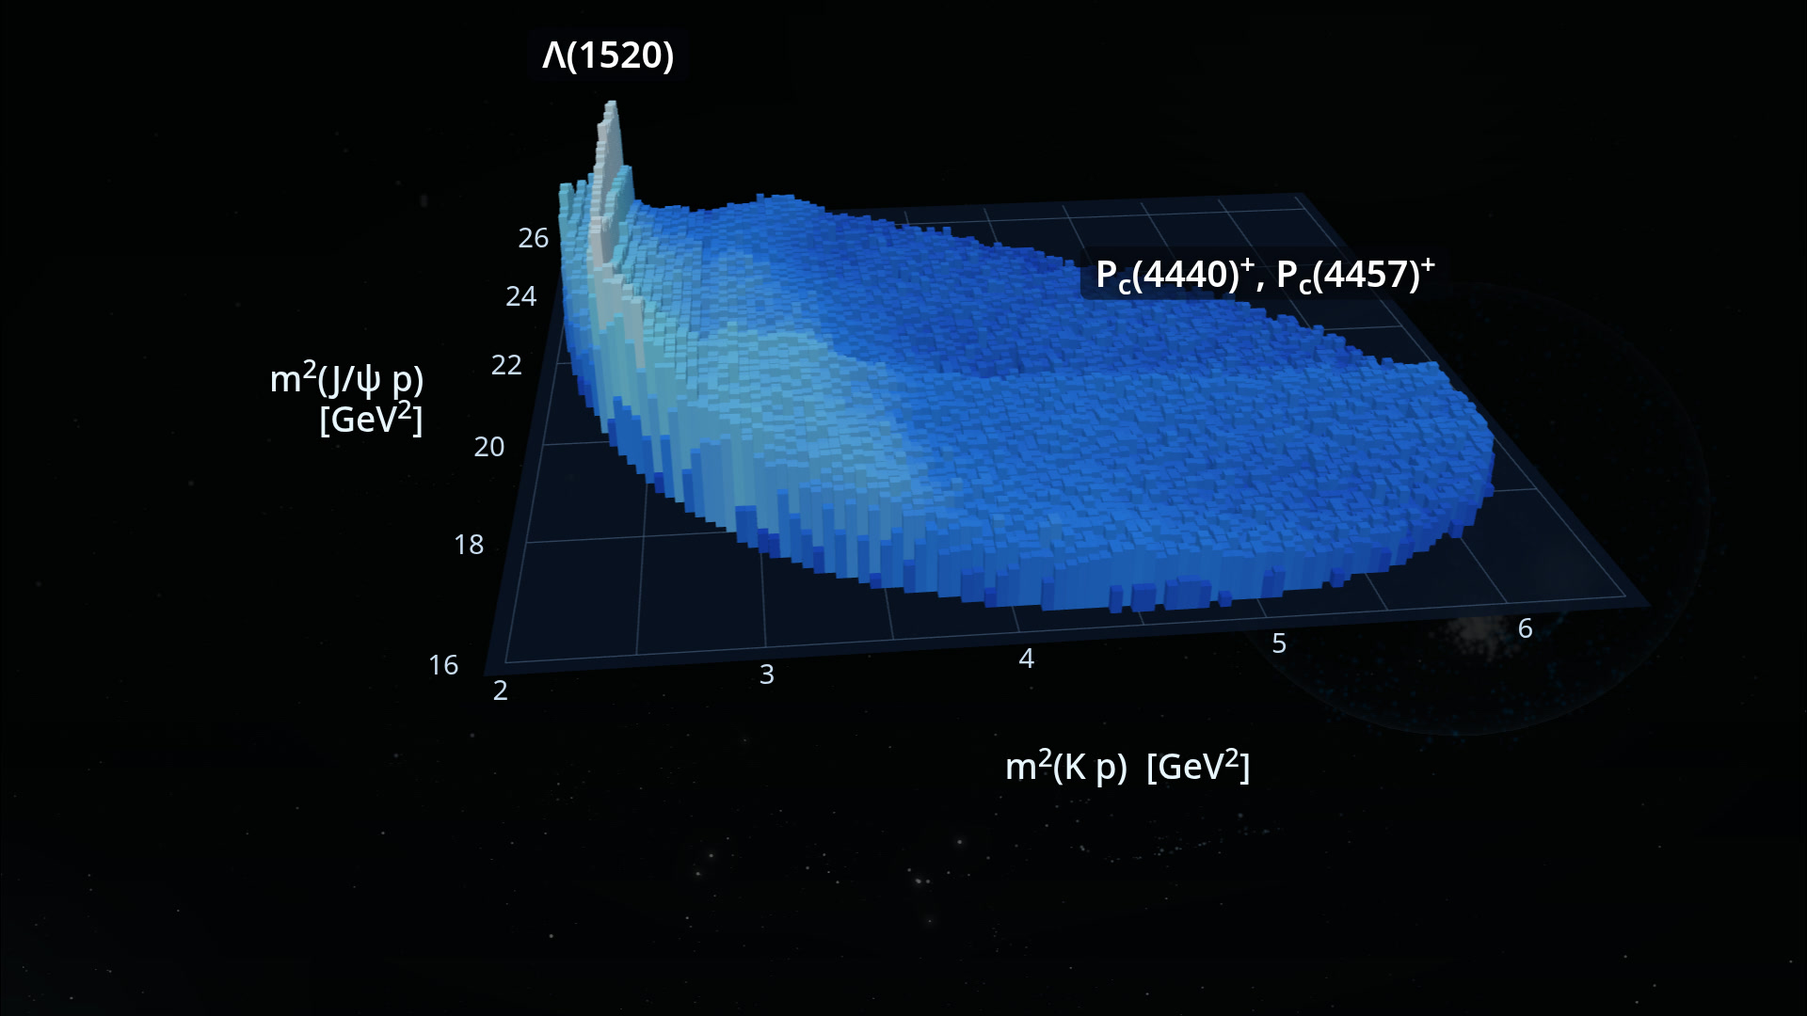
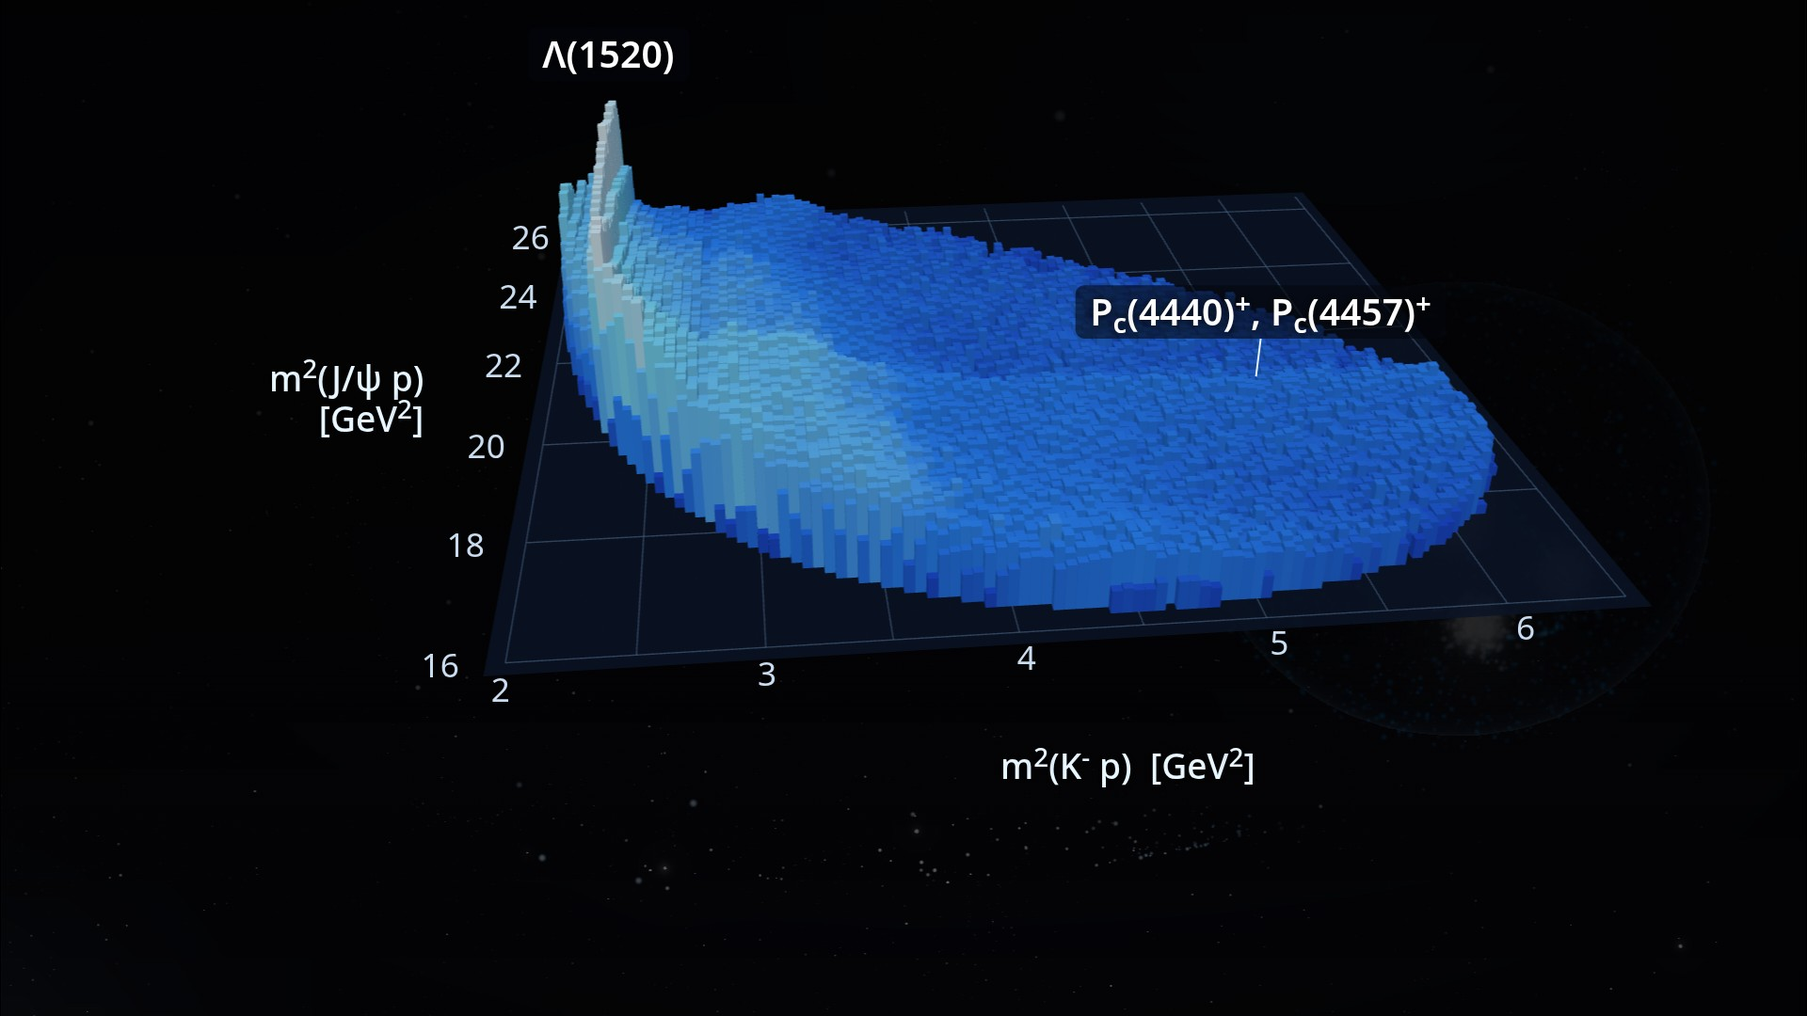
feat(tokyo): for an audience of scientists from Nagoya, Tokyo and RIKEN — Belle (2003) back after Kobayashi and Maskawa, the globe's cities and RIKEN named, the Dalitz plot's labels, plates re-recorded
The owner, 11 Nov: the audience is Japanese and Lithuanian scientists. Slide 9 is the
Belle slide again (X(3872), an exotic hadron candidate); the globe clip's lit cities are
named over its settled end (no new take); half a minute less on the atoms clip and the
recipes; the Dalitz plot's ticks at 18 px, K⁻ in its axis name, the P_c name joined to its
band; slide 16's two roles larger; 18 slides, 14.6 of 15 min. Every slide from the old 9 on
is one higher, so the 11 plates are a new take.

diff --git a/talks/2026_11_18_Tokyo/setup/Dalitz3D.vue b/talks/2026_11_18_Tokyo/setup/Dalitz3D.vue
@@ -26,6 +26,7 @@ const gl = ref(true)
 const still = computed(() => !live.value || !gl.value)
 const stillSrc = `${import.meta.env.BASE_URL}figures/dalitz_end.jpg`
 const labels = reactive([])
+const leads = reactive([])            // a thin line from a name down to what it names: { x1, y1, x2, y2, op }
 
 // the plot in the world: m²(Kp) 2…6.5 along x, m²(J/ψp) 16…26.5 along −z (far is up, seen from above)
 const XL = 2, XH = 6.5, YL = 16, YH = 26.5
@@ -142,6 +143,7 @@ const ease = (x) => { x = Math.min(Math.max(x, 0), 1); return x * x * (3 - 2 * x
 // the timeline (s): the candidates fall 0.5–9 (seen from above, the cells lighting flat); the tilt 6–10; the
 // columns rise 7–13; the names at 12.5; then a slow turn
 const T_TILT = 6, T_RISE = 7, T_NAME = 12.5
+const PC_NAME = 0.85, PC_TOP = 0.45   // the P_c name's foot and the top of its band's columns (world units)
 const dummy = new Object3D()
 let nextSpark = 0, lastSpawn = 0
 function update(t) {
@@ -192,18 +194,23 @@ function update(t) {
     }
   }
   // the labels: the axes' names and ticks, the two features once risen
-  labels.length = 0
+  labels.length = 0; leads.length = 0
   const lab = (x, y, z, html, cls, op = 1) => { const p = proj(x, y, z); if (p) labels.push({ ...p, html, cls, op }) }
   for (const m of [2, 3, 4, 5, 6]) lab(wx(m), 0, wz(YL) + 0.35, String(m), 'tick')
   for (const m of [16, 18, 20, 22, 24, 26]) lab(wx(XL) - 0.35, 0, wz(m), String(m), 'tick r')
   // the x axis's name moves out from its ticks as the plot tilts: seen at a low angle the gap between the two
   // rows closes, and in the turn's left half the "4" stood on the name
-  lab(0, 0, wz(YL) + 1.0 + 0.7 * tilt * tilt, 'm<sup>2</sup>(K p) &nbsp;[GeV<sup>2</sup>]', 'axis')
+  lab(0, 0, wz(YL) + 1.0 + 0.7 * tilt * tilt, 'm<sup>2</sup>(K<sup>−</sup> p) &nbsp;[GeV<sup>2</sup>]', 'axis')
   lab(wx(XL) - 1.25, 0, wz(21.2), 'm<sup>2</sup>(J/ψ p)<br>[GeV<sup>2</sup>]', 'axis r')
   const nm = ease((t - T_NAME) / 1)
   if (nm > 0) {
     lab(wx(2.31), 2.25, wz(24.6), 'Λ(1520)', 'feat', nm)
-    lab(wx(5.4), 1.25, wz(19.82), 'P<sub>c</sub>(4440)<sup>+</sup>, P<sub>c</sub>(4457)<sup>+</sup>', 'feat', nm)
+    // the band is low (its columns stand ~0.45, those before it ~0.4 and behind it ~0.3; the Λ(1520) ridge
+    // 2.4), so its name stands close over it and a thin line joins the name to the band's top
+    const bx = wx(5.4), bz = wz(19.82)
+    lab(bx, PC_NAME, bz, 'P<sub>c</sub>(4440)<sup>+</sup>, P<sub>c</sub>(4457)<sup>+</sup>', 'feat', nm)
+    const a = proj(bx, PC_NAME, bz), b = proj(bx, PC_TOP, bz)
+    if (a && b) leads.push({ x1: a.x, y1: a.y, x2: b.x, y2: b.y, op: nm })
   }
 }
 const v3 = new Vector3()
@@ -248,6 +255,7 @@ onBeforeUnmount(dispose)
     <canvas v-show="!still" ref="cv" class="dz-gl" />
     <img v-if="still" class="dz-still" :src="stillSrc" alt="LHCb 2019: the Dalitz plot of Λb⁰ → J/ψ p K⁻ in 3D, the Λ(1520) ridge and the P_c band" />
     <template v-if="!still">
+      <svg class="dz-leads"><line v-for="(l, i) in leads" :key="i" :x1="l.x1" :y1="l.y1" :x2="l.x2" :y2="l.y2" :opacity="l.op" /></svg>
       <div v-for="(l, i) in labels" :key="i" :class="['dl', l.cls]" :style="{ transform: `translate(${l.x}px, ${l.y}px)`, opacity: l.op }" v-html="l.html" />
     </template>
   </div>
@@ -257,8 +265,10 @@ onBeforeUnmount(dispose)
 .dz { position: absolute; inset: 0; pointer-events: none; font-family: "Helvetica Neue", Helvetica, Arial, "Liberation Sans", sans-serif; }
 .dz-gl { position: absolute; inset: 0; width: 100%; height: 100%; }
 .dz-still { position: absolute; inset: 0; width: 100%; height: 100%; object-fit: cover; }
+.dz-leads { position: absolute; left: 0; top: 0; width: 100%; height: 100%; overflow: visible; }
+.dz-leads line { stroke: #e8f6ff; stroke-width: 1; }
 .dl { position: absolute; left: 0; top: 0; white-space: nowrap; line-height: 1.15; text-shadow: 0 0 6px rgba(0, 0, 0, 0.95); }
-.dl.tick { font-size: 15px; color: #c9dcf0; translate: -50% -50%; }
+.dl.tick { font-size: 18px; color: #c9dcf0; translate: -50% -50%; }
 .dl.tick.r { translate: -100% -50%; }
 .dl.axis { font-size: 19px; color: #e8f6ff; font-weight: 500; translate: -50% -50%; text-align: center; }
 .dl.axis.r { translate: -100% -50%; text-align: right; }

diff --git a/talks/2026_11_18_Tokyo/styles/index.css b/talks/2026_11_18_Tokyo/styles/index.css
@@ -147,3 +147,17 @@ html[data-stage] .hero .num { z-index: 2; }
 .slidev-layout .spec-names i { font-size: 21px; font-weight: 600; color: #fff; text-shadow: 0 0 10px rgba(3, 5, 12, 0.9); }
 .slidev-layout .spec-names i.c { transform: translateX(-50%); }
 .slidev-layout .spec-names i.r { transform: translateX(-100%); }
+
+/* the globe slide (11 Nov: the audience comes from Nagoya, Tokyo and RIKEN): the lit cities named over the
+   clip's settled end, in the dark of the sea beside them, each on a thin line from its light. Slide units
+   (the SVG's viewBox is the slide, 980 × 551.25); the dots' places are measured on the clip's last frame. */
+.slidev-layout .globe-names { position: absolute; inset: 0; width: 100%; height: 100%; overflow: visible; }
+.slidev-layout .globe-names path { fill: none; stroke: #cfeaff; stroke-opacity: 0.9; stroke-width: 1.5; }
+/* under the two lines that start inside Japan's glow: a dark casing, so they show on the white */
+.slidev-layout .globe-names path.case { stroke: #03050c; stroke-opacity: 0.7; stroke-width: 3.5; }
+.slidev-layout .globe-names circle { fill: #03050c; stroke: #e8f6ff; stroke-width: 1.2; }
+.slidev-layout .globe-names text {
+  font-family: "Helvetica Neue", Helvetica, Arial, "Liberation Sans", sans-serif;
+  font-size: 20px; font-weight: 600; letter-spacing: 0.02em; fill: #e8f6ff; text-transform: none;
+  paint-order: stroke; stroke: rgba(3, 5, 12, 0.85); stroke-width: 4px; stroke-linejoin: round;
+}

diff --git a/talks/2026_11_18_Tokyo/setup/QuarkRecipes.vue b/talks/2026_11_18_Tokyo/setup/QuarkRecipes.vue
@@ -348,7 +348,7 @@ onBeforeUnmount(dispose)
 .hl { position: absolute; left: 0; top: 0; display: flex; flex-direction: column; align-items: center; white-space: nowrap; line-height: 1.1; }
 .hl.left { align-items: flex-start; }
 .hl :deep(.n) { font-weight: 600; color: #f2f8ff; text-shadow: 0 0 8px rgba(0, 0, 0, 0.9); }
-.hl :deep(.c) { margin-top: 0.3em; font-size: 0.8em; color: #9fd8ff; letter-spacing: 0.08em; text-shadow: 0 0 8px rgba(0, 0, 0, 0.9); }
+.hl :deep(.c) { margin-top: 0.3em; font-size: max(18px, 0.8em); color: #9fd8ff; letter-spacing: 0.08em; text-shadow: 0 0 8px rgba(0, 0, 0, 0.9); }
 /* the antiquark's bar, drawn over its letter (an overline sat far above the letter at large sizes) */
 :deep(.bar) { position: relative; display: inline-block; }
 :deep(.bar)::before { content: ''; position: absolute; left: 0.04em; right: 0.04em; top: 0.02em; height: 0.075em; background: currentColor; border-radius: 0.04em; }

diff --git a/talks/2026_11_18_Tokyo/CLAUDE.md b/talks/2026_11_18_Tokyo/CLAUDE.md
@@ -50,7 +50,7 @@ Private context (sources, people, budget): `~/.local/share/outreach_talks/briefs
   scientists while doing it.
 - Spine: CERN, the LHC and LHCb; matter down to quarks; the Japanese thread
   (Sakata in Nagoya, 1956; Kobayashi and Maskawa's six quarks, 1973, whose
-  b quark is LHCb's "b"); LHCb's pentaquarks in the decays of a particle
+  b quark is LHCb's "b"; Belle's X(3872) at KEK, 2003); LHCb's pentaquarks in the decays of a particle
   carrying that b quark (2019); how the five quarks are bound is the
   question Vilnius (LHCb data) and Nagoya (theory) answer together.
   Yukawa's pion and the molecule's theory are Yamaguchi's talk, next.
@@ -97,15 +97,19 @@ Private context (sources, people, budget): `~/.local/share/outreach_talks/briefs
 
 1 cover: the CMS collision, the pentaquark out of its flash · 2 the CERN clip with its swoosh, 2018 at its
 end · 3 the LHC tunnel: 27 km, 13.6 TeV, −271.3 °C · 4 lhcb.mp4 with its music · 5 atoms_fast.mp4 · 6 Sakata,
-1956 · 7 Gell-Mann and Zweig, 1964 · 8 Kobayashi and Maskawa, 1973 · 9 the six quarks and their recipes in
-3D, the pentaquark full screen · 10 data2019.mp4: LHCb, a collision, the 2019 histogram, its fit and three
-peaks · 11 the 2019 Dalitz plot in 3D · 12 molecule, compact, hadroquarkonium · 13 globe.mp4, "Lithuania
-and Japan" · 14 the Vilnius group · 15 the project, 2026–2028 · 16 finale.mp4 · 17 thanks and credits.
+1956 · 7 Gell-Mann and Zweig, 1964 · 8 Kobayashi and Maskawa, 1973 · 9 Belle at KEK, 2003: the X(3872)
+(back on 11 Nov) · 10 the six quarks and their recipes in 3D, the pentaquark full screen · 11 data2019.mp4:
+LHCb, a collision, the 2019 histogram, its fit and three peaks · 12 the 2019 Dalitz plot in 3D · 13 molecule,
+compact, hadroquarkonium · 14 globe.mp4, "Lithuania and Japan", the cities and RIKEN named at its end ·
+15 the Vilnius group · 16 the project, 2026–2028 · 17 finale.mp4 · 18 thanks and credits.
 
-17 slides, 14.9 min by the notes and clips (`pnpm talk map tokyo`). Twelve more are hidden (`hide: true`,
-not deleted; remove the line to bring one back): the Vilnius zoom out and the coming back, the LHCb detector
-(5 600 t), Lithuania at CERN (2018), the collaboration (1 891), the atom, Yukawa (1935), the two hadron
-families, Belle (2003), the molecule close-up, the SciFi's Hamamatsu channels (524 288), open data (38.3 TB).
+18 slides, 14.6 min by the notes and clips (`pnpm talk map tokyo`). **Since 11 Nov every slide from the old 9
+on is one higher**: the Decisions of 10 Nov below, the code comments and `takes/README.md` keep the numbers
+of their day (their "slide 10" is the data clip, now 11; "slide 13" the globe, now 14). Eleven more are
+hidden (`hide: true`, not deleted; remove the line to bring one back): the Vilnius zoom out and the coming
+back, the LHCb detector (5 600 t), Lithuania at CERN (2018), the collaboration (1 891), the atom, Yukawa
+(1935), the two hadron families, the molecule close-up, the SciFi's Hamamatsu channels (524 288), open data
+(38.3 TB).
 
 ## Figures
 
@@ -174,7 +178,8 @@ needs moves to the shared kit instead of being copied.
   mesons, the baryons and the pentaquark made from them; still `public/figures/recipes_end.jpg`.
 - `setup/Dalitz3D.vue`: slide 11, the 2019 paper's Dalitz figure digitised (`public/data/dalitz-2019.json`,
   `bake/dalitz_digitise.py`, `bake/dalitz_check.png`) as instanced columns; still
-  `public/figures/dalitz_end.jpg`. Its labels are HTML, projected each frame; the camera's pose and the
+  `public/figures/dalitz_end.jpg`. Its labels are HTML, projected each frame (and one SVG line, from the
+  P_c name to its band, 11 Nov); the camera's pose and the
   x-axis name's offset keep them in the frame and clear of the caption (Decisions, second round, 9). Both
   stills are frames of a build at 1920 × 1080 with `.cap` hidden: the recipes' last frame; the Dalitz plot
   21.3 s after the slide is entered (the turn's right extreme).
@@ -290,6 +295,46 @@ tidy this talk up".
     grain went to 0 (point 4). A skipped step needs the owner's word for the deploy. For the CLI: a
     headmatter `broadcast: false` that wins over the grain. The plates read "stale" after every edit of
     this file, which is in the take's fingerprint though no plate shows it.
+
+## Decisions, 11 Nov (the audience)
+
+The owner: "it's japan and lithuania scientists, they will be from nagoya, tokyo, rikken". Four changes were
+offered for that audience (less time on the introduction, the Belle slide back, the wording an expert would
+catch, RIKEN on the globe) and the owner answered: "Yes, also make sure the flow and talk is good".
+
+1. The introduction's minutes: slide 5 (the atoms clip) half a minute beside its 26.5 s, the recipes
+   (slide 10) 0.75 min for their 30 s. The clips themselves stay as the owner chose them on 10 Nov.
+2. Belle is back as slide 9: the photo of the detector, "2003 / KEK", "Belle discovers the X(3872), an exotic
+   hadron candidate" (the facts bank: a candidate, never "the first exotic hadron"). After Kobayashi and
+   Maskawa, at their station: Belle was built to test them, so the Japanese thread runs 1956, 1973, 2003
+   unbroken, and the recipes still end on the pentaquark that the next slide's data shows. The other place,
+   after the recipes, would put a four-quark candidate between the pentaquark and its data. The photo's crop
+   is `focus="50% 50%"` (the detector's opened end above the caption; at 35 % it read as a hall of racks).
+   Its credit is on the last slide. Its notes still name LEPS's Θ⁺ at SPring-8 (RIKEN's site): with RIKEN in
+   the room that is said with care or left out (Figures, the speaker's caveats).
+3. The globe (slide 14) names its lit cities once the clip rests (from 15 s; `<AtClipEnd :lead="4">`):
+   Vilnius, and beside Japan RIKEN, Tokyo and Nagoya, each on a thin line from its light. The names are the
+   slide's own, an SVG in slide units over the clip's last frame (`.globe-names`, styles/index.css), as the
+   data slide's axis is: nothing was recorded again, and nothing needs publishing for it. RIKEN's Wako campus
+   is 15 km from Tokyo's light, the same light at this scale, so the two names share one line and a bracket.
+   Not chosen: a fourth light in the take (it would fall on Tokyo's) and a new take with Japan's contour
+   lowered until Nagoya and Tokyo resolve (the reviewer's root fix; the owner asked for the contour "central
+   and brightest" on 5 Nov). The lights' places in the last frame, slide units: Vilnius (290.7, 55.1), Nagoya
+   (692.9, 326.1), Tokyo (705.8, 316.1); they follow from the take's last pose (centre 104° E, 44° N, roll
+   −6°, dist 8.3, a focal length of 1155 px at 1920 wide). A new take with another end moves them.
+   Open for the owner: RIKEN is named beside the project's cities though the strand joins only Vilnius and
+   Nagoya; if that reads as a partner's role, the name goes (one `<text>` and the bracket).
+4. From the review of the shots (a subagent on the contact sheet, then on fresh captures of 9, 14 and 16):
+   the recipes' quark content never under 18 px (`.hl .c`, QuarkRecipes.vue); slide 16's "LHCb data" and
+   "theory" at height 0.75, lighter (space.json); the credits end "all via Wikimedia Commons, cropped" (the
+   Belle photo is cropped too). The Dalitz plot (slide 12): ticks at 18 px (were 15), the x axis "m²(K⁻ p)",
+   and the P_c name lowered from 1.25 to 0.85 over the plane with a thin line down to its band's top (0.45):
+   it stood about 42 slide units over a band that is itself low. Every label's box was read from the page
+   each 0.5 s from 0.5 to 66 s: none out of the frame, under the caption or touching another (closest: the
+   tick row 12 px over the x axis's name while seen from above). The still `dalitz_end.jpg` re-made the same
+   way (21.3 s, the caption hidden).
+5. Every slide from the old 9 on is one higher, so the plates were recorded again.
+6. The no-notes rule held: no script was written or changed; only minutes, sources and comments.
 
 ## Verify
 

diff --git a/talks/2026_11_18_Tokyo/deck.md b/talks/2026_11_18_Tokyo/deck.md
@@ -160,7 +160,10 @@ their motion and of the force that holds them. Most of the mass of your body
 comes from this energy.
 
 Source: Yang et al., PRL 121 (2018) 212001; Brookhaven National Laboratory
-news. (~1 min)
+news.
+
+11 Nov (the audience is scientists): the clip runs with a line or two over it, so half a minute beside
+the clip's 26.5 s. (~0.5 min)
 -->
 
 ---
@@ -226,6 +229,32 @@ nobelprize.org; home.cern. (~0.75 min)
 -->
 
 ---
+space: { at: km, dim: 0.6 }
+---
+
+<!-- back from the hidden slides on 11 Nov (the owner: the audience is Japanese and Lithuanian scientists, from
+     Nagoya, Tokyo and RIKEN): the Japanese thread goes on from Kobayashi and Maskawa to the experiment that
+     confirmed them and then found the X(3872). The caption follows the facts bank: a candidate, never
+     "the first exotic hadron". -->
+<StagePhoto src="figures/belle.jpg" alt="The Belle detector at KEK, Tsukuba" focus="50% 50%">
+<div class="shade tr strong"></div>
+<div class="num tr">2003<span class="name">KEK</span></div>
+<div class="cap">Belle discovers the X(3872), an exotic hadron candidate</div>
+</StagePhoto>
+
+<!-- facts: belle-cpv-2001, belle-x3872-2003, x3872-started-exotic-searches, theta-plus-leps-japan-19-events, leps-theta-not-confirmed -->
+
+<!--
+Belle at KEK, Tsukuba: in 2001 it confirmed Kobayashi and Maskawa's
+prediction; in 2003 it found the X(3872), whose discovery started the hunt
+for exotic hadrons. The same year LEPS at SPring-8 reported a five-quark
+candidate; more sensitive experiments did not confirm it.
+Sources: Belle,
+PRL 87 (2001) 091802 and PRL 91 (2003) 262001; nobelprize.org; LEPS,
+PRL 91 (2003) 012002; PDG. (~0.75 min)
+-->
+
+---
 space: { at: families, dim: 0.97 }   # the world nearly dark: the flat slide carries it
 ---
 
@@ -240,7 +269,8 @@ another: mesons (a quark and an antiquark: π⁺ u d̄, K⁺ u s̄, D⁰ c ū, J
 baryons (three quarks: p uud, n udd, Λ uds, Ω⁻ sss, Λc⁺ udc, Ξcc⁺⁺ ucc, LHCb 2017, Λb⁰ udb),
 and last five, uudcc̄, a pentaquark. Top stays dim: it decays before it can bind (the owner:
 "just t quark doesn't hadronize"). setup/QuarkRecipes.vue; it runs once, about 30 s, and holds.
-Sources: PDG (quark model); LHCb, PRL 119 (2017) 112001 (Ξcc⁺⁺). (~1.25 min)
+Sources: PDG (quark model); LHCb, PRL 119 (2017) 112001 (Ξcc⁺⁺).
+11 Nov (the audience is scientists): the recipes run their 30 s and the talk goes on. (~0.75 min)
 -->
 
 ---
@@ -346,6 +376,15 @@ space: { at: globe, recorded: clip }   # v0.11: a back-step or a jump holds the 
      so the slide after rests on the clip's last view. Fade, not cut: a cut clip never announces that it
      covers the slide, so the world would draw on under it (Innoday, 22 Oct). -->
 <VideoPlayer src="globe.mp4" muted :controls="false" transition="fade" />
+<!-- 11 Nov (the audience comes from Nagoya, Tokyo and RIKEN): the lit cities named once the globe rests (the clip
+     from 15 s). The names are the slide's, over the clip's settled end, as slide 11's axis: the dots' places are
+     the clip's last frame in slide units (Vilnius 290.7, 55.1; Nagoya 692.9, 326.1; Tokyo 705.8, 316.1; RIKEN's
+     Wako campus is 15 km from Tokyo's dot, the same light at this scale, so the two names share a line and a
+     bracket). Vilnius's name stands west of its light: the strand leaves it eastward. Nagoya's and Tokyo's
+     lights are one white patch in the clip, so each is marked by a small dark dot where its line ends. Tokyo's
+     line meets the bracket at y = 292, clear of a star of the clip's last frame at (762, 308). Move them if
+     the take's end moves. -->
+<AtClipEnd :lead="4"><svg class="globe-names" viewBox="0 0 980 551.25" aria-hidden="true"><path class="case" d="M709.3 315.2 L778 292 M696.4 326.8 L778 344" /><path d="M277 55.5 H252 M709.3 315.2 L778 292 M778 280 V322 M696.4 326.8 L778 344" /><circle cx="705.8" cy="316.1" r="2.6" /><circle cx="692.9" cy="326.1" r="2.6" /><text x="246" y="62" text-anchor="end">Vilnius</text><text x="786" y="294">RIKEN</text><text x="786" y="318">Tokyo</text><text x="786" y="351">Nagoya</text></svg></AtClipEnd>
 <div class="cap">Lithuania and Japan</div>
 
 <!-- facts: lhcb-vilnius-joined -->
@@ -552,28 +591,6 @@ The question is whether nature allows more: four quarks, five, six. (~0.75 min)
 
 ---
 hide: true   # the 15-min cut (owner, 5 Nov); remove to bring it back
-space: { at: km, dim: 0.6 }
----
-
-<StagePhoto src="figures/belle.jpg" alt="The Belle detector at KEK, Tsukuba" focus="50% 35%">
-<div class="shade tr strong"></div>
-<div class="num tr">2003<span class="name">KEK</span></div>
-</StagePhoto>
-
-<!-- facts: belle-cpv-2001, belle-x3872-2003, x3872-started-exotic-searches, theta-plus-leps-japan-19-events, leps-theta-not-confirmed -->
-
-<!--
-Belle at KEK, Tsukuba: in 2001 it confirmed Kobayashi and Maskawa's
-prediction; in 2003 it found the X(3872), whose discovery started the hunt
-for exotic hadrons. The same year LEPS at SPring-8 reported a five-quark
-candidate; more sensitive experiments did not confirm it.
-Sources: Belle,
-PRL 87 (2001) 091802 and PRL 91 (2003) 262001; nobelprize.org; LEPS,
-PRL 91 (2003) 012002; PDG. (~1.25 min)
--->
-
----
-hide: true   # the 15-min cut (owner, 5 Nov); remove to bring it back
 space: { at: [229.3, 0, 0], dist: 7.5, yaw: 0, pitch: 6, dim: 0.15 }
 ---
 
@@ -658,7 +675,7 @@ space: { at: [-31.5, 0.4, 0], dist: 12, yaw: -30, pitch: 14, dim: 0.1 }   # the 
 
 <CloseStill src="figures/finale_end.jpg" />
 <div class="thanks low">ありがとうございました<span class="sep">·</span>Ačiū</div>
-<div class="credits credit">Photos: S. Sakata, Ken Domon (public domain); M. Kobayashi, The Japan Academy, CC BY 4.0; T. Maskawa, OIST, CC BY 2.0; Vilnius University, Diliff, CC BY-SA 3.0; Nagoya University, DrKssn, CC BY-SA 3.0; all via Wikimedia Commons, the portraits cropped. LHCb model: © CERN for the benefit of the LHCb collaboration (GPL-3.0), HSF Phoenix (Apache-2.0); human model: Blender Human Base Meshes (CC0); LHCb collision: CERN open data. LHC tunnel: CERN-FOOTAGE-2022-013-001. Globe: Natural Earth. J/ψ p spectrum and Dalitz plot: LHCb, Phys. Rev. Lett. 122 (2019) 222001, CC BY 4.0 (HEPData ins1728691). CMS collision on the cover: CERN open data.</div>
+<div class="credits credit">Photos: S. Sakata, Ken Domon (public domain); M. Kobayashi, The Japan Academy, CC BY 4.0; T. Maskawa, OIST, CC BY 2.0; the Belle detector, yellow_bird_woodstock, CC BY-SA 2.0; Vilnius University, Diliff, CC BY-SA 3.0; Nagoya University, DrKssn, CC BY-SA 3.0; all via Wikimedia Commons, cropped. LHCb model: © CERN for the benefit of the LHCb collaboration (GPL-3.0), HSF Phoenix (Apache-2.0); human model: Blender Human Base Meshes (CC0); LHCb collision: CERN open data. LHC tunnel: CERN-FOOTAGE-2022-013-001. Globe: Natural Earth. J/ψ p spectrum and Dalitz plot: LHCb, Phys. Rev. Lett. 122 (2019) 222001, CC BY 4.0 (HEPData ins1728691). CMS collision on the cover: CERN open data.</div>
 
 <!--
 Credits (house rule: the credits a licence asks for, tiny print, on the last page). The finale's
